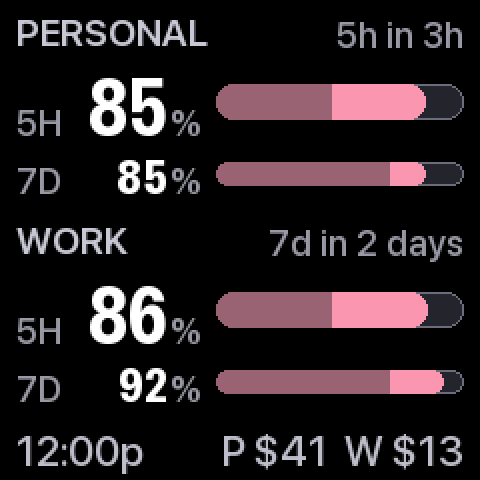
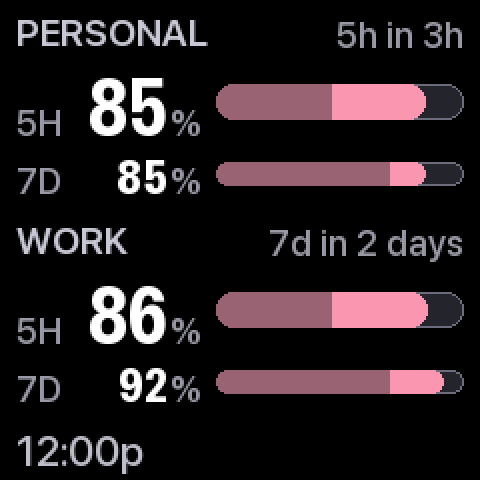
feat: redesign the single-account layout; screenshots show the default
Single account switches to stacked rows: a 56px numeral right-aligned
on its own line over a full-width bar — nearly double the bar pixels
the side-by-side form allowed. Bar coordinates move into
Geometry.bar_top/bar_left, shared with the contrast tests so they
sample what the renderer paints.

Screenshots regenerate without the cost line to match the opt-in
default; one two-up and one single state document the dollars on.

Changed region(s): [[0.7188, 0.9062, 0.9688, 0.9688], [0.4688, 0.9062, 0.6875, 0.9688]]

diff --git a/src/clawdtv/demo.py b/src/clawdtv/demo.py
@@ -5,6 +5,9 @@ automated checks are looking at exactly the same set of cases. Every state the
 renderer can produce should appear here — a state that is not in this list is a
 state nobody has ever looked at. That includes both layouts: two stacked
 accounts and the full-height single-account frame.
+
+Costs appear only in the one state that documents them: the cost line is
+opt-in, so the default look everywhere else is the honest one.
 """
 
 from __future__ import annotations
@@ -47,27 +50,27 @@ def states() -> dict[str, list[AccountUsage]]:
     """Named states; most are two-account frames, the last few single-account."""
     return {
         "fresh / low": [
-            _account("PERSONAL", 5, 23, cost_today=4.20),
-            _account("WORK", 12, 8, cost_today=1.10),
+            _account("PERSONAL", 5, 23),
+            _account("WORK", 12, 8),
         ],
         "just under warn (59%)": [
-            _account("PERSONAL", 59, 44, cost_today=18.0),
-            _account("WORK", 59, 59, cost_today=6.5),
+            _account("PERSONAL", 59, 44),
+            _account("WORK", 59, 59),
         ],
         "warn boundary (60%)": [
-            _account("PERSONAL", 60, 61, cost_today=22.4),
-            _account("WORK", 60, 60, cost_today=7.0),
+            _account("PERSONAL", 60, 61),
+            _account("WORK", 60, 60),
         ],
         "alert boundary (85%)": [
-            _account("PERSONAL", 85, 85, cost_today=41.0),
-            _account("WORK", 86, 92, cost_today=13.25),
+            _account("PERSONAL", 85, 85),
+            _account("WORK", 86, 92),
         ],
         "maxed (100%)": [
-            _account("PERSONAL", 100, 100, cost_today=120.0),
-            _account("WORK", 100, 97, cost_today=88.5),
+            _account("PERSONAL", 100, 100),
+            _account("WORK", 100, 97),
         ],
         "zero used": [
-            _account("PERSONAL", 0, 0, cost_today=0.0),
+            _account("PERSONAL", 0, 0),
             _account("WORK", 0, 0),
         ],
         "stale data": [
@@ -89,15 +92,15 @@ def states() -> dict[str, list[AccountUsage]]:
             _account("WORK", 22, 19),
         ],
         "amber 5h shows its reset": [
-            _account("PERSONAL", 72, 40, five_reset=timedelta(minutes=42), cost_today=88.0),
-            _account("WORK", 12, 8, cost_today=1.10),
+            _account("PERSONAL", 72, 40, five_reset=timedelta(minutes=42)),
+            _account("WORK", 12, 8),
         ],
         "high 5h shows its reset": [
-            _account("PERSONAL", 88, 40, five_reset=timedelta(minutes=42), cost_today=241.0),
-            _account("WORK", 12, 8, cost_today=1.10),
+            _account("PERSONAL", 88, 40, five_reset=timedelta(minutes=42)),
+            _account("WORK", 12, 8),
         ],
         "high weekly shows its reset": [
-            _account("PERSONAL", 30, 91, seven_reset=timedelta(days=1, hours=6), cost_today=60.0),
+            _account("PERSONAL", 30, 91, seven_reset=timedelta(days=1, hours=6)),
             _account("WORK", 22, 19),
         ],
         "both windows high": [
@@ -107,20 +110,23 @@ def states() -> dict[str, list[AccountUsage]]:
                 84,
                 five_reset=timedelta(minutes=55),
                 seven_reset=timedelta(hours=30),
-                cost_today=95.0,
             ),
             _account("WORK", 40, 22),
         ],
         "weekly urgent": [
-            _account("PERSONAL", 30, 91, cost_today=241.0),
-            _account("WORK", 30, 12, seven_reset=timedelta(days=5), cost_today=8.0),
+            _account("PERSONAL", 30, 91),
+            _account("WORK", 30, 12, seven_reset=timedelta(days=5)),
         ],
         "long label crowds header": [
-            _account("PERSONAL-WORK", 30, 88, cost_today=60.0),
+            _account("PERSONAL-WORK", 30, 88),
             _account("WORK", 44, 12),
         ],
+        "optional cost line on": [
+            _account("PERSONAL", 42, 61, cost_today=241.0),
+            _account("WORK", 12, 8, cost_today=8.50),
+        ],
         "not signed in": [
-            _account("PERSONAL", 31, 27, cost_today=9.0),
+            _account("PERSONAL", 31, 27),
             AccountUsage(label="WORK", error="not logged in"),
         ],
         "token expired": [
@@ -133,10 +139,13 @@ def states() -> dict[str, list[AccountUsage]]:
         ],
         # -- single-account layout -------------------------------------------
         "single / comfortable": [
-            _account("PERSONAL", 34, 18, cost_today=12.0),
+            _account("PERSONAL", 34, 18),
         ],
         "single / over pace, reset near": [
-            _account("PERSONAL", 78, 88, five_reset=timedelta(minutes=48), cost_today=241.0),
+            _account("PERSONAL", 78, 88, five_reset=timedelta(minutes=48)),
+        ],
+        "single / with cost line": [
+            _account("PERSONAL", 52, 30, cost_today=88.0),
         ],
         "single / unknown": [
             _account("PERSONAL", None, None),

diff --git a/src/clawdtv/render.py b/src/clawdtv/render.py
@@ -44,13 +44,19 @@ TAG_X = MARGIN
 BAR_RIGHT = W - MARGIN
 
 
+# Vertical gap between a stacked row's text line and its bar.
+STACK_BAR_GAP = 8
+
+
 @dataclass(frozen=True)
 class Geometry:
     """Pixel layout for the account panels, chosen by how many share the frame.
 
-    Two accounts stack in two half-height panels. A single account gets the
-    whole screen, which buys larger numerals, taller bars, and more air — the
-    same rows, just no longer sized to leave room for a neighbor.
+    Two accounts stack in two half-height panels, each row a tag, a number, and
+    a bar side by side. A single account gets the whole screen and switches to
+    a stacked row: the number rides its own line and the bar runs the full
+    frame width beneath it — nearly double the bar resolution, which is the
+    point of having the space.
     """
 
     panel_ys: tuple[int, ...]
@@ -60,13 +66,25 @@ class Geometry:
     secondary_size: int
     hero_bar_h: int
     secondary_bar_h: int
-    number_right: int  # right edge shared by both numbers; bars start after it
+    number_right: int  # right edge shared by both numbers
+    stacked: bool = False  # bar below the text line rather than beside it
 
     @property
-    def bar_x(self) -> int:
-        """Bars start one standard gutter after the number column — derived, so
-        widening the column cannot silently leave the bars overlapping it."""
-        return self.number_right + MARGIN
+    def bar_left(self) -> int:
+        """Stacked bars span the full width; side-by-side bars start one
+        standard gutter after the number column — derived, so widening the
+        column cannot silently leave the bars overlapping it."""
+        return MARGIN if self.stacked else self.number_right + MARGIN
+
+    def bar_top(self, panel_y: int, hero: bool) -> int:
+        """One formula shared with the contrast tests, so the pixels they
+        sample are the pixels the renderer painted."""
+        row_y = panel_y + (self.hero_dy if hero else self.secondary_dy)
+        size = self.hero_size if hero else self.secondary_size
+        if self.stacked:
+            return row_y + size + STACK_BAR_GAP
+        bar_h = self.hero_bar_h if hero else self.secondary_bar_h
+        return row_y + (size - bar_h) // 2 + 3
 
 
 TWO_UP = Geometry(
@@ -80,18 +98,18 @@ TWO_UP = Geometry(
     number_right=100,
 )
 
-# The hero numeral is capped at 48px by the column the tag and number share:
-# "100%" in condensed bold has to clear the tag with the same right edge every
-# smaller value uses.
+# The single-account frame: label, then each window as a full-width band —
+# big right-aligned numeral over a margin-to-margin bar.
 ONE_UP = Geometry(
     panel_ys=(8,),
-    hero_dy=40,
-    secondary_dy=132,
-    hero_size=48,
-    secondary_size=30,
-    hero_bar_h=24,
-    secondary_bar_h=16,
-    number_right=120,
+    hero_dy=36,
+    secondary_dy=140,
+    hero_size=56,
+    secondary_size=34,
+    hero_bar_h=32,
+    secondary_bar_h=20,
+    number_right=W - MARGIN,
+    stacked=True,
 )
 
 
@@ -308,12 +326,19 @@ def _render_bar(
 
 
 def _draw_row(
-    image: Image.Image, draw: ImageDraw.ImageDraw, y: int, row: Row, config: Config, geo: Geometry
+    image: Image.Image,
+    draw: ImageDraw.ImageDraw,
+    panel_y: int,
+    row: Row,
+    config: Config,
+    geo: Geometry,
+    hero: bool,
 ) -> None:
     color = theme.level_color(row.percent, config.warn_at, config.alert_at)
     number_font = theme.font(row.size, theme.WEIGHT_NUMBER)
     small = theme.font(theme.SIZE_SMALL, theme.WEIGHT_SMALL)
 
+    y = panel_y + (geo.hero_dy if hero else geo.secondary_dy)
     baseline = y + row.size
     draw.text((TAG_X, baseline), row.tag, font=small, fill=theme.MUTED, anchor="ls")
 
@@ -332,9 +357,8 @@ def _draw_row(
             (geo.number_right - unit_w + 1, baseline), unit, font=small, fill=theme.MUTED, anchor="ls"
         )
 
-    bar_y = y + (row.size - row.bar_h) // 2 + 3
-    bar = _render_bar(BAR_RIGHT - geo.bar_x, row.bar_h, row.percent, color, row.pace)
-    image.paste(bar, (geo.bar_x, bar_y))
+    bar = _render_bar(BAR_RIGHT - geo.bar_left, row.bar_h, row.percent, color, row.pace)
+    image.paste(bar, (geo.bar_left, geo.bar_top(panel_y, hero)))
 
 
 def _draw_panel(
@@ -367,7 +391,7 @@ def _draw_panel(
     _draw_row(
         image,
         draw,
-        y + geo.hero_dy,
+        y,
         Row(
             "5H",
             None if five.reset_passed(now) else five.percent,
@@ -377,11 +401,12 @@ def _draw_panel(
         ),
         config,
         geo,
+        hero=True,
     )
     _draw_row(
         image,
         draw,
-        y + geo.secondary_dy,
+        y,
         Row(
             "7D",
             None if seven.reset_passed(now) else seven.percent,
@@ -391,6 +416,7 @@ def _draw_panel(
         ),
         config,
         geo,
+        hero=False,
     )
 
 

diff --git a/tests/test_contrast.py b/tests/test_contrast.py
@@ -106,10 +106,8 @@ def test_text_survives_compression(name: str, color, size: int, weight: str) -> 
     assert ratio >= TEXT_MIN, f"{name} after JPEG is {ratio:.2f}:1, needs {TEXT_MIN}:1"
 
 
-def _hero_bar_top(geo: render.Geometry) -> int:
-    """Top edge of the first panel's hero bar, derived rather than guessed."""
-    top = geo.panel_ys[0] + geo.hero_dy
-    return top + (geo.hero_size - geo.hero_bar_h) // 2 + 3
+# Bar coordinates come from Geometry.bar_top/bar_left — the renderer's own
+# formula — so the pixels sampled here are the pixels it painted.
 
 
 @pytest.mark.parametrize(
@@ -126,9 +124,9 @@ def test_bar_fill_is_distinguishable_from_track_after_compression(state: str, ex
     usages = demo.states()[state]
     geo = render.geometry(len(usages))
     frame = _jpeg_roundtrip(render.render(usages, cfg, demo.NOW))
-    row = _hero_bar_top(geo) + geo.hero_bar_h // 2
+    row = geo.bar_top(geo.panel_ys[0], hero=True) + geo.hero_bar_h // 2
 
-    fill = frame.getpixel((geo.bar_x + 12, row))
+    fill = frame.getpixel((geo.bar_left + 12, row))
     track = frame.getpixel((render.BAR_RIGHT - 12, row))
     ratio = theme.contrast(fill, track)
     assert ratio >= NON_TEXT_MIN, f"{expected} fill vs track after JPEG is {ratio:.2f}:1"
@@ -145,7 +143,7 @@ def test_track_edge_survives_compression() -> None:
     frame = _jpeg_roundtrip(render.render(demo.states()["zero used"], cfg, demo.NOW))
 
     column = render.BAR_RIGHT - 24
-    bar_top = _hero_bar_top(geo)
+    bar_top = geo.bar_top(geo.panel_ys[0], hero=True)
     edge = max(
         (frame.getpixel((column, y)) for y in range(bar_top - 2, bar_top + 4)),
         key=theme.luminance,

diff --git a/tools/assets.py b/tools/assets.py
@@ -39,7 +39,8 @@ WALKTHROUGH = {
 
 def hero(cfg) -> Image.Image:
     """One panel over pace and one under, with a reset close enough to be worth
-    saying — every distinct behavior the display has, in one believable frame."""
+    saying — every distinct behavior the display has, in one believable frame.
+    No cost line: the dollars are opt-in, so the default look is the honest one."""
     now = demo.NOW
     usages = [
         AccountUsage(
@@ -47,14 +48,12 @@ def hero(cfg) -> Image.Image:
             five_hour=Window(78, now + timedelta(minutes=48)),
             seven_day=Window(88, now + timedelta(days=2)),
             observed_at=now,
-            cost_today=241.0,
         ),
         AccountUsage(
             label="WORK",
             five_hour=Window(26, now + timedelta(hours=3, minutes=20)),
             seven_day=Window(4, now + timedelta(days=5)),
             observed_at=now,
-            cost_today=8.5,
         ),
     ]
     return render.render(usages, cfg, now)

diff --git a/tests/test_render.py b/tests/test_render.py
@@ -96,8 +96,8 @@ def test_zero_or_three_accounts_is_a_bug() -> None:
 def test_single_account_cost_carries_no_initial() -> None:
     """'P $12' disambiguates between two accounts; alone it is just noise."""
     cfg = config.load()
-    account = demo.states()["fresh / low"][0]  # cost_today set
-    pair = demo.states()["fresh / low"]
+    account = demo.states()["optional cost line on"][0]
+    pair = demo.states()["optional cost line on"]
     assert account.cost_today is not None
     # Rendered pixels differ in the footer's right corner; compare crops.
     single = render.render([account], cfg, demo.NOW).crop((120, render.FOOTER_Y, 240, 240))

diff --git a/docs/DESIGN.md b/docs/DESIGN.md
@@ -12,11 +12,14 @@ whole point of the display, and it is the first thing lost if each bar is sized
 by whatever text happens to sit beside it. Reset times ride in the panel header
 rather than beside their bars, which is what makes the full-width bars possible.
 
-**One layout per account count.** Two accounts stack in half-height panels. A
-single account is not "a pair with an empty half": it gets its own geometry —
-larger numerals, taller bars, more air — chosen in `render.Geometry`. The
-single-layout hero numeral is capped at 48px by the column the tag and number
-share; past that, "100%" collides with the row tag.
+**One layout per account count.** Two accounts stack in half-height panels,
+each row a tag, number, and bar side by side. A single account is not "a pair
+with an empty half": it switches to stacked rows — a 56px numeral right-aligned
+on its own line, with the bar running the full frame width beneath it. Side by
+side, the number column caps how long a bar can be; stacking gives the bar
+nearly double the pixels, which is the whole point of having the space. Both
+layouts live in `render.Geometry`, and the bars still share one x-range within
+a frame.
 
 **Each bar is a pressure gauge, not a progress bar.** While usage is within
 pace for the window — the rate that would just reach the reset — the bar is an

diff --git a/README.md b/README.md
@@ -65,7 +65,7 @@ consumption meter, not a bill.
 
 <details>
 <summary>Every state the renderer can produce</summary>
-<img src="assets/states.png" width="900" alt="Contact sheet of all twenty-two display states at actual size.">
+<img src="assets/states.png" width="900" alt="Contact sheet of all twenty-four display states at actual size.">
 </details>
 
 ## Turning it off
